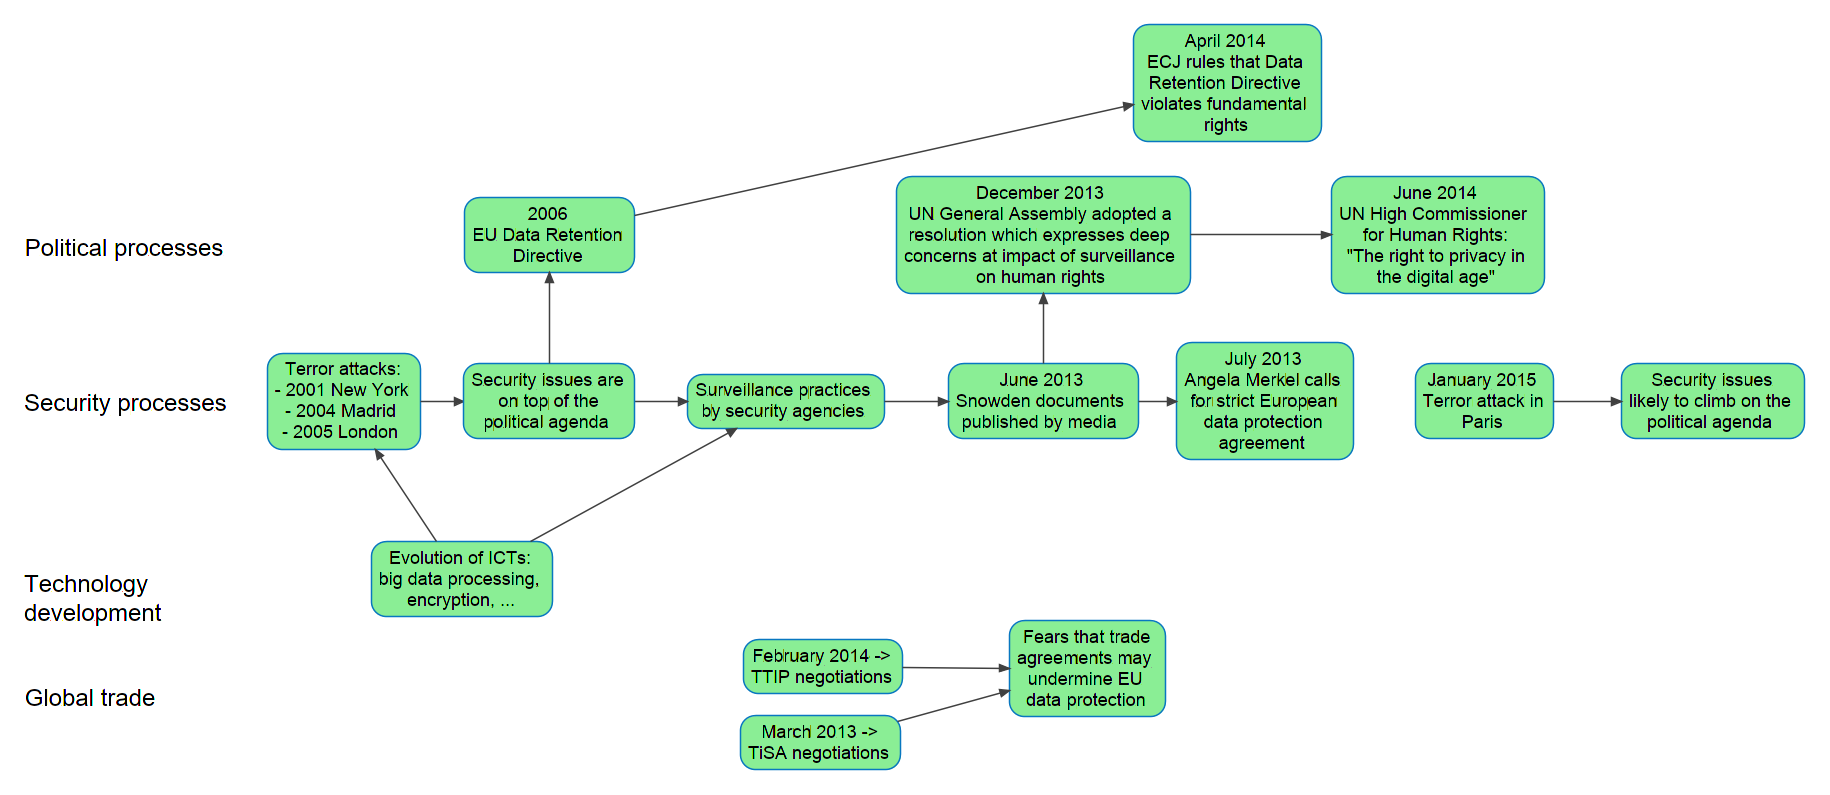
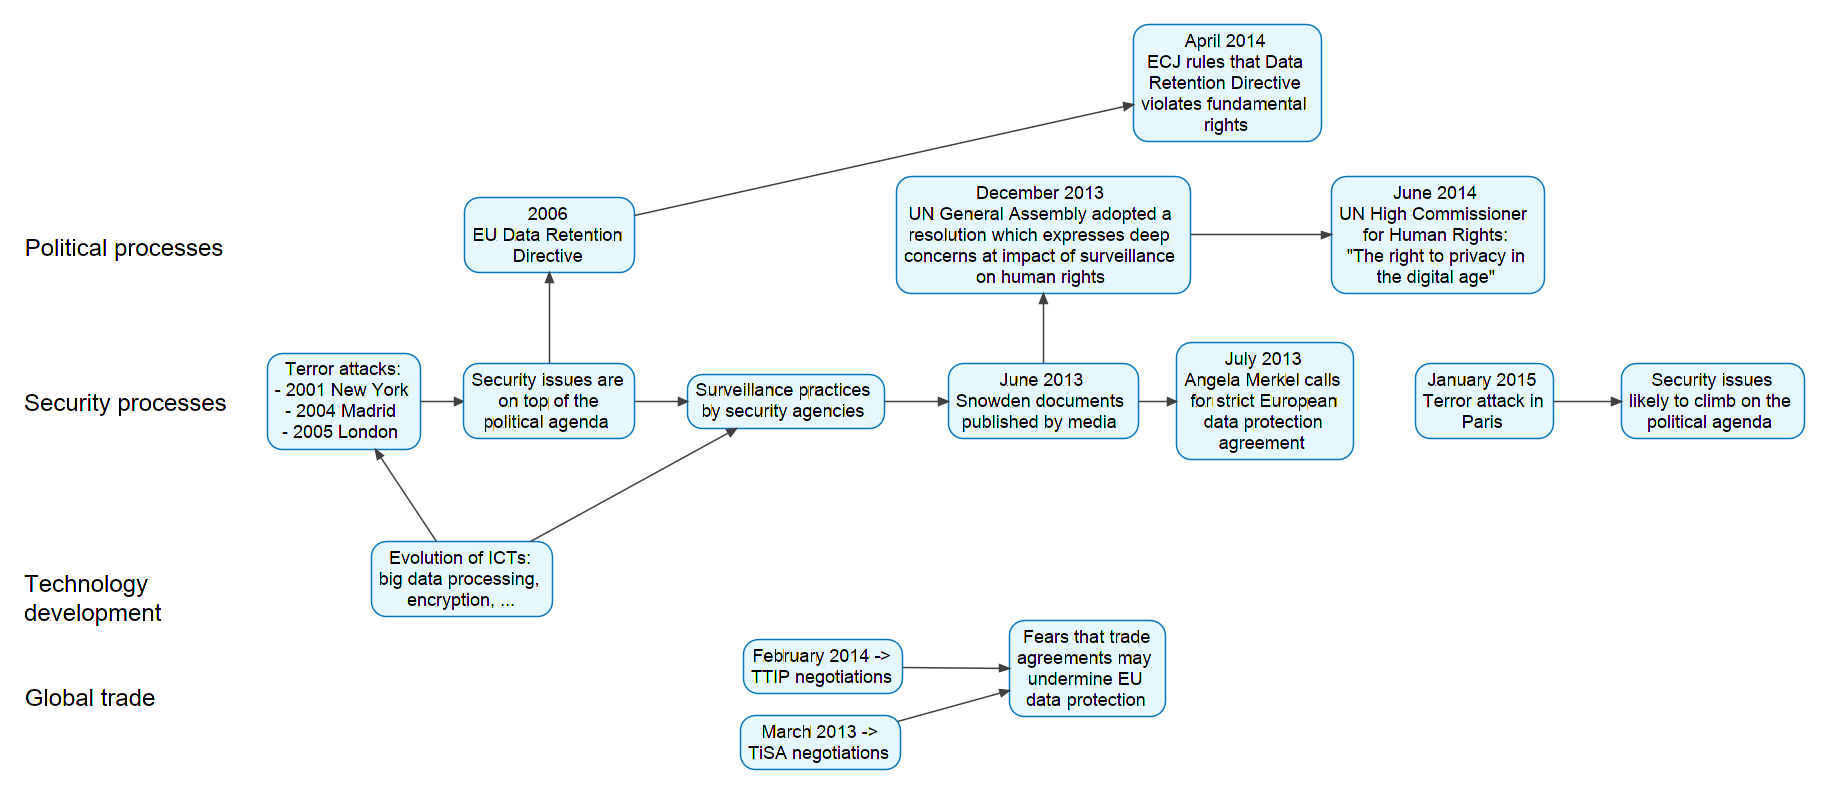
update figures

diff --git a/privacy-sequence-external.vue b/privacy-sequence-external.vue
@@ -1,14 +1,14 @@
 <!-- Tufts VUE 3.2.2 concept-map (privacy-sequence-external.vue) 2015-05-22 -->
 <!-- Tufts VUE: http://vue.tufts.edu/ -->
 <!-- Do Not Remove: VUE mapping @version(1.1) jar:file:/usr/share/java/vue/vue.jar!/tufts/vue/resources/lw_mapping_1_1.xml -->
-<!-- Do Not Remove: Saved date Fri May 22 13:57:42 EEST 2015 by mmin on platform Linux 4.0.3-1-ARCH in JVM 1.7.0_79-b14 -->
+<!-- Do Not Remove: Saved date Fri May 22 15:32:30 EEST 2015 by mmin on platform Linux 4.0.3-1-ARCH in JVM 1.7.0_79-b14 -->
 <!-- Do Not Remove: Saving version @(#)VUE: built May 23 2013 at 2146 by tomadm on Linux 2.6.18-348.2.1.el5 i386 JVM 1.7.0_21-b11(bits=32) -->
 <?xml version="1.0" encoding="US-ASCII"?>
 <LW-MAP xmlns:xsi="http://www.w3.org/2001/XMLSchema-instance"
     xsi:noNamespaceSchemaLocation="none" ID="0"
     label="privacy-sequence-external.vue" created="1432205393662"
     x="0.0" y="0.0" width="1.4E-45" height="1.4E-45" strokeWidth="0.0" autoSized="false">
-    <resource referenceCreated="1432292262990" size="27336"
+    <resource referenceCreated="1432297950345" size="27497"
         spec="/home/mmin/utu/reactive-sequences/scenarios-as-reactive-sequences/privacy-sequence-external.vue"
         type="1" xsi:type="URLResource">
         <title>privacy-sequence-external.vue</title>
@@ -23,7 +23,7 @@
         label="June 2013&#xa;Snowden documents&#xa;published by media"
         layerID="1" created="1432207827683" x="150.94571" y="460.50757"
         width="127.0" height="50.0" strokeWidth="1.0" autoSized="true" xsi:type="node">
-        <fillColor>#8AEE95</fillColor>
+        <fillColor>#E6F7FD</fillColor>
         <strokeColor>#0877C0</strokeColor>
         <textColor>#000000</textColor>
         <font>Arial-plain-12</font>
@@ -34,7 +34,7 @@
         label="July 2013&#xa;Angela Merkel calls&#xa;for strict European&#xa;data protection&#xa;agreement"
         layerID="1" created="1432208143502" x="303.298" y="446.50757"
         width="118.0" height="78.0" strokeWidth="1.0" autoSized="true" xsi:type="node">
-        <fillColor>#8AEE95</fillColor>
+        <fillColor>#E6F7FD</fillColor>
         <strokeColor>#0877C0</strokeColor>
         <textColor>#000000</textColor>
         <font>Arial-plain-12</font>
@@ -57,7 +57,7 @@
         label="Surveillance practices&#xa;by security agencies"
         layerID="1" created="1432272805796" x="-22.67677" y="467.50757"
         width="131.0" height="36.0" strokeWidth="1.0" autoSized="true" xsi:type="node">
-        <fillColor>#8AEE95</fillColor>
+        <fillColor>#E6F7FD</fillColor>
         <strokeColor>#0877C0</strokeColor>
         <textColor>#000000</textColor>
         <font>Arial-plain-12</font>
@@ -91,7 +91,7 @@
     <child ID="42" label="January 2015&#xa;Terror attack in&#xa;Paris"
         layerID="1" created="1432273081970" x="462.2526" y="460.50757"
         width="92.0" height="50.0" strokeWidth="1.0" autoSized="true" xsi:type="node">
-        <fillColor>#8AEE95</fillColor>
+        <fillColor>#E6F7FD</fillColor>
         <strokeColor>#0877C0</strokeColor>
         <textColor>#000000</textColor>
         <font>Arial-plain-12</font>
@@ -158,7 +158,7 @@
         label="Evolution of ICTs:&#xa;big data processing,&#xa;encryption, ..."
         layerID="1" created="1432276282403" x="-233.83585" y="579.0658"
         width="121.0" height="50.0" strokeWidth="1.0" autoSized="true" xsi:type="node">
-        <fillColor>#8AEE95</fillColor>
+        <fillColor>#E6F7FD</fillColor>
         <strokeColor>#0877C0</strokeColor>
         <textColor>#000000</textColor>
         <font>Arial-plain-12</font>
@@ -182,7 +182,7 @@
         label="April 2014&#xa;ECJ rules that Data&#xa;Retention Directive&#xa;violates fundamental&#xa;rights"
         layerID="1" created="1432277517336" x="274.52792" y="234.48987"
         width="125.0" height="78.0" strokeWidth="1.0" autoSized="true" xsi:type="node">
-        <fillColor>#8AEE95</fillColor>
+        <fillColor>#E6F7FD</fillColor>
         <strokeColor>#0877C0</strokeColor>
         <textColor>#000000</textColor>
         <font>Arial-plain-12</font>
@@ -192,7 +192,7 @@
     <child ID="77" label="2006&#xa;EU Data Retention&#xa;Directive"
         layerID="1" created="1432278605946" x="-171.40407" y="349.59338"
         width="113.0" height="50.0" strokeWidth="1.0" autoSized="true" xsi:type="node">
-        <fillColor>#8AEE95</fillColor>
+        <fillColor>#E6F7FD</fillColor>
         <strokeColor>#0877C0</strokeColor>
         <textColor>#000000</textColor>
         <font>Arial-plain-12</font>
@@ -215,7 +215,7 @@
         label="Terror attacks:&#xa;- 2001 New York&#xa;- 2004 Madrid&#xa;- 2005 London"
         layerID="1" created="1432278643483" x="-303.17926" y="453.50757"
         width="102.0" height="64.0" strokeWidth="1.0" autoSized="true" xsi:type="node">
-        <fillColor>#8AEE95</fillColor>
+        <fillColor>#E6F7FD</fillColor>
         <strokeColor>#0877C0</strokeColor>
         <textColor>#000000</textColor>
         <font>Arial-plain-12</font>
@@ -226,7 +226,7 @@
         label="June 2014&#xa;UN High Commissioner&#xa;for Human Rights:&#xa;&quot;The right to privacy in&#xa;the digital age&quot;"
         layerID="1" created="1432290932931" x="406.4886" y="335.59338"
         width="142.0" height="78.0" strokeWidth="1.0" autoSized="true" xsi:type="node">
-        <fillColor>#8AEE95</fillColor>
+        <fillColor>#E6F7FD</fillColor>
         <strokeColor>#0877C0</strokeColor>
         <textColor>#000000</textColor>
         <font>Arial-plain-12</font>
@@ -237,7 +237,7 @@
         label="December 2013&#xa;UN General Assembly adopted a&#xa;resolution which expresses deep&#xa;concerns at impact of surveillance&#xa;on human rights"
         layerID="1" created="1432290932931" x="116.44571" y="335.59338"
         width="196.0" height="78.0" strokeWidth="1.0" autoSized="true" xsi:type="node">
-        <fillColor>#8AEE95</fillColor>
+        <fillColor>#E6F7FD</fillColor>
         <strokeColor>#0877C0</strokeColor>
         <textColor>#000000</textColor>
         <font>Arial-plain-12</font>
@@ -284,7 +284,7 @@
         label="Security issues are&#xa;on top of the&#xa;political agenda"
         layerID="1" created="1432291000938" x="-171.90407" y="460.50757"
         width="114.0" height="50.0" strokeWidth="1.0" autoSized="true" xsi:type="node">
-        <fillColor>#8AEE95</fillColor>
+        <fillColor>#E6F7FD</fillColor>
         <strokeColor>#0877C0</strokeColor>
         <textColor>#000000</textColor>
         <font>Arial-plain-12</font>
@@ -307,7 +307,7 @@
         label="Security issues&#xa;likely to climb on the&#xa;political agenda"
         layerID="1" created="1432291070602" x="599.71436" y="460.50757"
         width="122.0" height="50.0" strokeWidth="1.0" autoSized="true" xsi:type="node">
-        <fillColor>#8AEE95</fillColor>
+        <fillColor>#E6F7FD</fillColor>
         <strokeColor>#0877C0</strokeColor>
         <textColor>#000000</textColor>
         <font>Arial-plain-12</font>
@@ -371,7 +371,7 @@
         label="Fears that trade&#xa;agreements may&#xa;undermine EU&#xa;data protection"
         layerID="1" created="1432291322790" x="191.8863" y="631.96484"
         width="104.0" height="64.0" strokeWidth="1.0" autoSized="true" xsi:type="node">
-        <fillColor>#8AEE95</fillColor>
+        <fillColor>#E6F7FD</fillColor>
         <strokeColor>#0877C0</strokeColor>
         <textColor>#000000</textColor>
         <font>Arial-plain-12</font>
@@ -409,7 +409,7 @@
     <child ID="100" label="March 2013 ->&#xa;TiSA negotiations"
         layerID="1" created="1432291620100" x="12.4418335" y="695.2981"
         width="107.0" height="36.0" strokeWidth="1.0" autoSized="true" xsi:type="node">
-        <fillColor>#8AEE95</fillColor>
+        <fillColor>#E6F7FD</fillColor>
         <strokeColor>#0877C0</strokeColor>
         <textColor>#000000</textColor>
         <font>Arial-plain-12</font>
@@ -419,7 +419,7 @@
     <child ID="101" label="February 2014 ->&#xa;TTIP negotiations"
         layerID="1" created="1432291705756" x="14.36113" y="644.4396"
         width="106.0" height="36.0" strokeWidth="1.0" autoSized="true" xsi:type="node">
-        <fillColor>#8AEE95</fillColor>
+        <fillColor>#E6F7FD</fillColor>
         <strokeColor>#0877C0</strokeColor>
         <textColor>#000000</textColor>
         <font>Arial-plain-12</font>

diff --git a/privacy-sequence.vue b/privacy-sequence.vue
@@ -1,14 +1,14 @@
 <!-- Tufts VUE 3.2.2 concept-map (privacy-sequence.vue) 2015-05-22 -->
 <!-- Tufts VUE: http://vue.tufts.edu/ -->
 <!-- Do Not Remove: VUE mapping @version(1.1) jar:file:/usr/share/java/vue/vue.jar!/tufts/vue/resources/lw_mapping_1_1.xml -->
-<!-- Do Not Remove: Saved date Fri May 22 15:28:24 EEST 2015 by mmin on platform Linux 4.0.3-1-ARCH in JVM 1.7.0_79-b14 -->
+<!-- Do Not Remove: Saved date Fri May 22 15:31:33 EEST 2015 by mmin on platform Linux 4.0.3-1-ARCH in JVM 1.7.0_79-b14 -->
 <!-- Do Not Remove: Saving version @(#)VUE: built May 23 2013 at 2146 by tomadm on Linux 2.6.18-348.2.1.el5 i386 JVM 1.7.0_21-b11(bits=32) -->
 <?xml version="1.0" encoding="US-ASCII"?>
 <LW-MAP xmlns:xsi="http://www.w3.org/2001/XMLSchema-instance"
     xsi:noNamespaceSchemaLocation="none" ID="0"
     label="privacy-sequence.vue" created="1432205393662" x="0.0" y="0.0"
     width="1.4E-45" height="1.4E-45" strokeWidth="0.0" autoSized="false">
-    <resource referenceCreated="1432297704189" size="28931"
+    <resource referenceCreated="1432297893424" size="29060"
         spec="/home/mmin/utu/reactive-sequences/scenarios-as-reactive-sequences/privacy-sequence.vue"
         type="1" xsi:type="URLResource">
         <title>privacy-sequence.vue</title>
@@ -183,7 +183,7 @@
         width="134.0" height="30.0" strokeWidth="0.0" autoSized="false" xsi:type="text">
         <strokeColor>#404040</strokeColor>
         <textColor>#000000</textColor>
-        <font>SansSerif-plain-14</font>
+        <font>Arial-plain-16</font>
         <URIString>http://vue.tufts.edu/rdf/resource/7a3be8f47f00000146ae6cee5c9b4e14</URIString>
         <richText>&lt;html&gt;
   &lt;head color="#000000" style="color: #000000"&gt;
@@ -199,7 +199,7 @@
   &lt;/head&gt;
   &lt;body&gt;
     &lt;p color="#000000" style="color: #000000"&gt;
-      Legislative and political processes
+      &lt;font style="font-size:16;"&gt;Legislative and political processes&lt;/font&gt;
     &lt;/p&gt;
   &lt;/body&gt;
 &lt;/html&gt;
@@ -207,11 +207,11 @@
         <label>Legislative and political processes</label>
     </child>
     <child ID="56" label="Civil society and academia" layerID="1"
-        created="1432274857221" x="-424.5" y="535.0" width="150.0"
-        height="16.0" strokeWidth="0.0" autoSized="false" xsi:type="text">
+        created="1432274857221" x="-424.5" y="515.0" width="150.0"
+        height="40.0" strokeWidth="0.0" autoSized="false" xsi:type="text">
         <strokeColor>#404040</strokeColor>
         <textColor>#000000</textColor>
-        <font>SansSerif-plain-14</font>
+        <font>Arial-plain-16</font>
         <URIString>http://vue.tufts.edu/rdf/resource/7a3c06b77f00000146ae6cee8b07eabc</URIString>
         <richText>&lt;html&gt;
   &lt;head color="#000000" style="color: #000000"&gt;
@@ -227,7 +227,7 @@
   &lt;/head&gt;
   &lt;body&gt;
     &lt;p color="#000000" style="color: #000000"&gt;
-      Civil society and academia
+      &lt;font style="font-size:16;"&gt;Civil society and academia&lt;/font&gt;
     &lt;/p&gt;
   &lt;/body&gt;
 &lt;/html&gt;
@@ -273,7 +273,7 @@
         height="16.0" strokeWidth="0.0" autoSized="false" xsi:type="text">
         <strokeColor>#404040</strokeColor>
         <textColor>#000000</textColor>
-        <font>SansSerif-plain-14</font>
+        <font>Arial-plain-16</font>
         <URIString>http://vue.tufts.edu/rdf/resource/7a566ca67f00000146ae6cee4422ee4c</URIString>
         <richText>&lt;html&gt;
   &lt;head color="#000000" style="color: #000000"&gt;
@@ -289,7 +289,7 @@
   &lt;/head&gt;
   &lt;body&gt;
     &lt;p color="#000000" style="color: #000000"&gt;
-      Google's actions
+      &lt;font style="font-size:16;"&gt;Google's actions&lt;/font&gt;
     &lt;/p&gt;
   &lt;/body&gt;
 &lt;/html&gt;
@@ -393,7 +393,7 @@
         <ID2 xsi:type="node">46</ID2>
     </child>
     <child ID="75" label="Lobbying from&#xa;interest groups" layerID="1"
-        created="1432278352974" x="536.0" y="423.5" width="92.0"
+        created="1432278352974" x="542.0" y="446.5" width="92.0"
         height="36.0" strokeWidth="1.0" autoSized="true" xsi:type="node">
         <fillColor>#E6F7FD</fillColor>
         <strokeColor>#0877C0</strokeColor>
@@ -402,15 +402,15 @@
         <URIString>http://vue.tufts.edu/rdf/resource/7a73434a7f00000146ae6ceee45fdc16</URIString>
         <shape arcwidth="20.0" archeight="20.0" xsi:type="roundRect"/>
     </child>
-    <child ID="76" layerID="1" created="1432278376709" x="582.0023"
-        y="251.0" width="5.799988" height="173.0" strokeWidth="1.0"
+    <child ID="76" layerID="1" created="1432278376709" x="587.5"
+        y="251.0" width="1.0" height="196.0" strokeWidth="1.0"
         autoSized="false" controlCount="0" arrowState="2" xsi:type="link">
         <strokeColor>#404040</strokeColor>
         <textColor>#404040</textColor>
         <font>Arial-plain-11</font>
         <URIString>http://vue.tufts.edu/rdf/resource/7a73434b7f00000146ae6ceee70cba02</URIString>
-        <point1 x="582.5023" y="423.5"/>
-        <point2 x="587.3023" y="251.5"/>
+        <point1 x="588.0" y="446.5"/>
+        <point2 x="588.0" y="251.5"/>
         <ID1 xsi:type="node">75</ID1>
         <ID2 xsi:type="node">28</ID2>
     </child>
@@ -451,7 +451,7 @@
         <ID2 xsi:type="node">28</ID2>
     </child>
     <child ID="85" label="Google's actions:&#xa;changed practices?"
-        layerID="1" created="1432290364515" x="685.5" y="518.9141"
+        layerID="1" created="1432290364515" x="685.5" y="408.91412"
         width="118.0" height="36.0" strokeWidth="1.0" autoSized="true" xsi:type="node">
         <fillColor>#E6F7FD</fillColor>
         <strokeColor>#0877C0</strokeColor>
@@ -460,27 +460,27 @@
         <URIString>http://vue.tufts.edu/rdf/resource/7b2902147f0000017804b6d4355063ef</URIString>
         <shape arcwidth="20.0" archeight="20.0" xsi:type="roundRect"/>
     </child>
-    <child ID="86" layerID="1" created="1432290373799" x="664.5"
-        y="536.4141" width="21.5" height="1.0" strokeWidth="1.0"
+    <child ID="86" layerID="1" created="1432290373799" x="647.1818"
+        y="444.41412" width="73.272705" height="54.0" strokeWidth="1.0"
         autoSized="false" controlCount="0" arrowState="2" xsi:type="link">
         <strokeColor>#404040</strokeColor>
         <textColor>#404040</textColor>
         <font>Arial-plain-11</font>
         <URIString>http://vue.tufts.edu/rdf/resource/7b2902147f0000017804b6d406fce05a</URIString>
-        <point1 x="665.0" y="536.9141"/>
-        <point2 x="685.5" y="536.9141"/>
+        <point1 x="647.6818" y="497.91412"/>
+        <point2 x="719.9545" y="444.91412"/>
         <ID1 xsi:type="node">11</ID1>
         <ID2 xsi:type="node">85</ID2>
     </child>
     <child ID="91" layerID="1" created="1432297407013" x="744.0"
-        y="265.0" width="1.0" height="254.41412" strokeWidth="1.0"
+        y="265.0" width="1.0" height="144.41412" strokeWidth="1.0"
         autoSized="false" controlCount="0" arrowState="3" xsi:type="link">
         <strokeColor>#404040</strokeColor>
         <textColor>#404040</textColor>
         <font>Arial-plain-11</font>
         <URIString>http://vue.tufts.edu/rdf/resource/7b942d397f0000017804b6d4e94cc315</URIString>
         <point1 x="744.5" y="265.5"/>
-        <point2 x="744.5" y="518.9141"/>
+        <point2 x="744.5" y="408.91412"/>
         <ID1 xsi:type="node">15</ID1>
         <ID2 xsi:type="node">85</ID2>
     </child>
